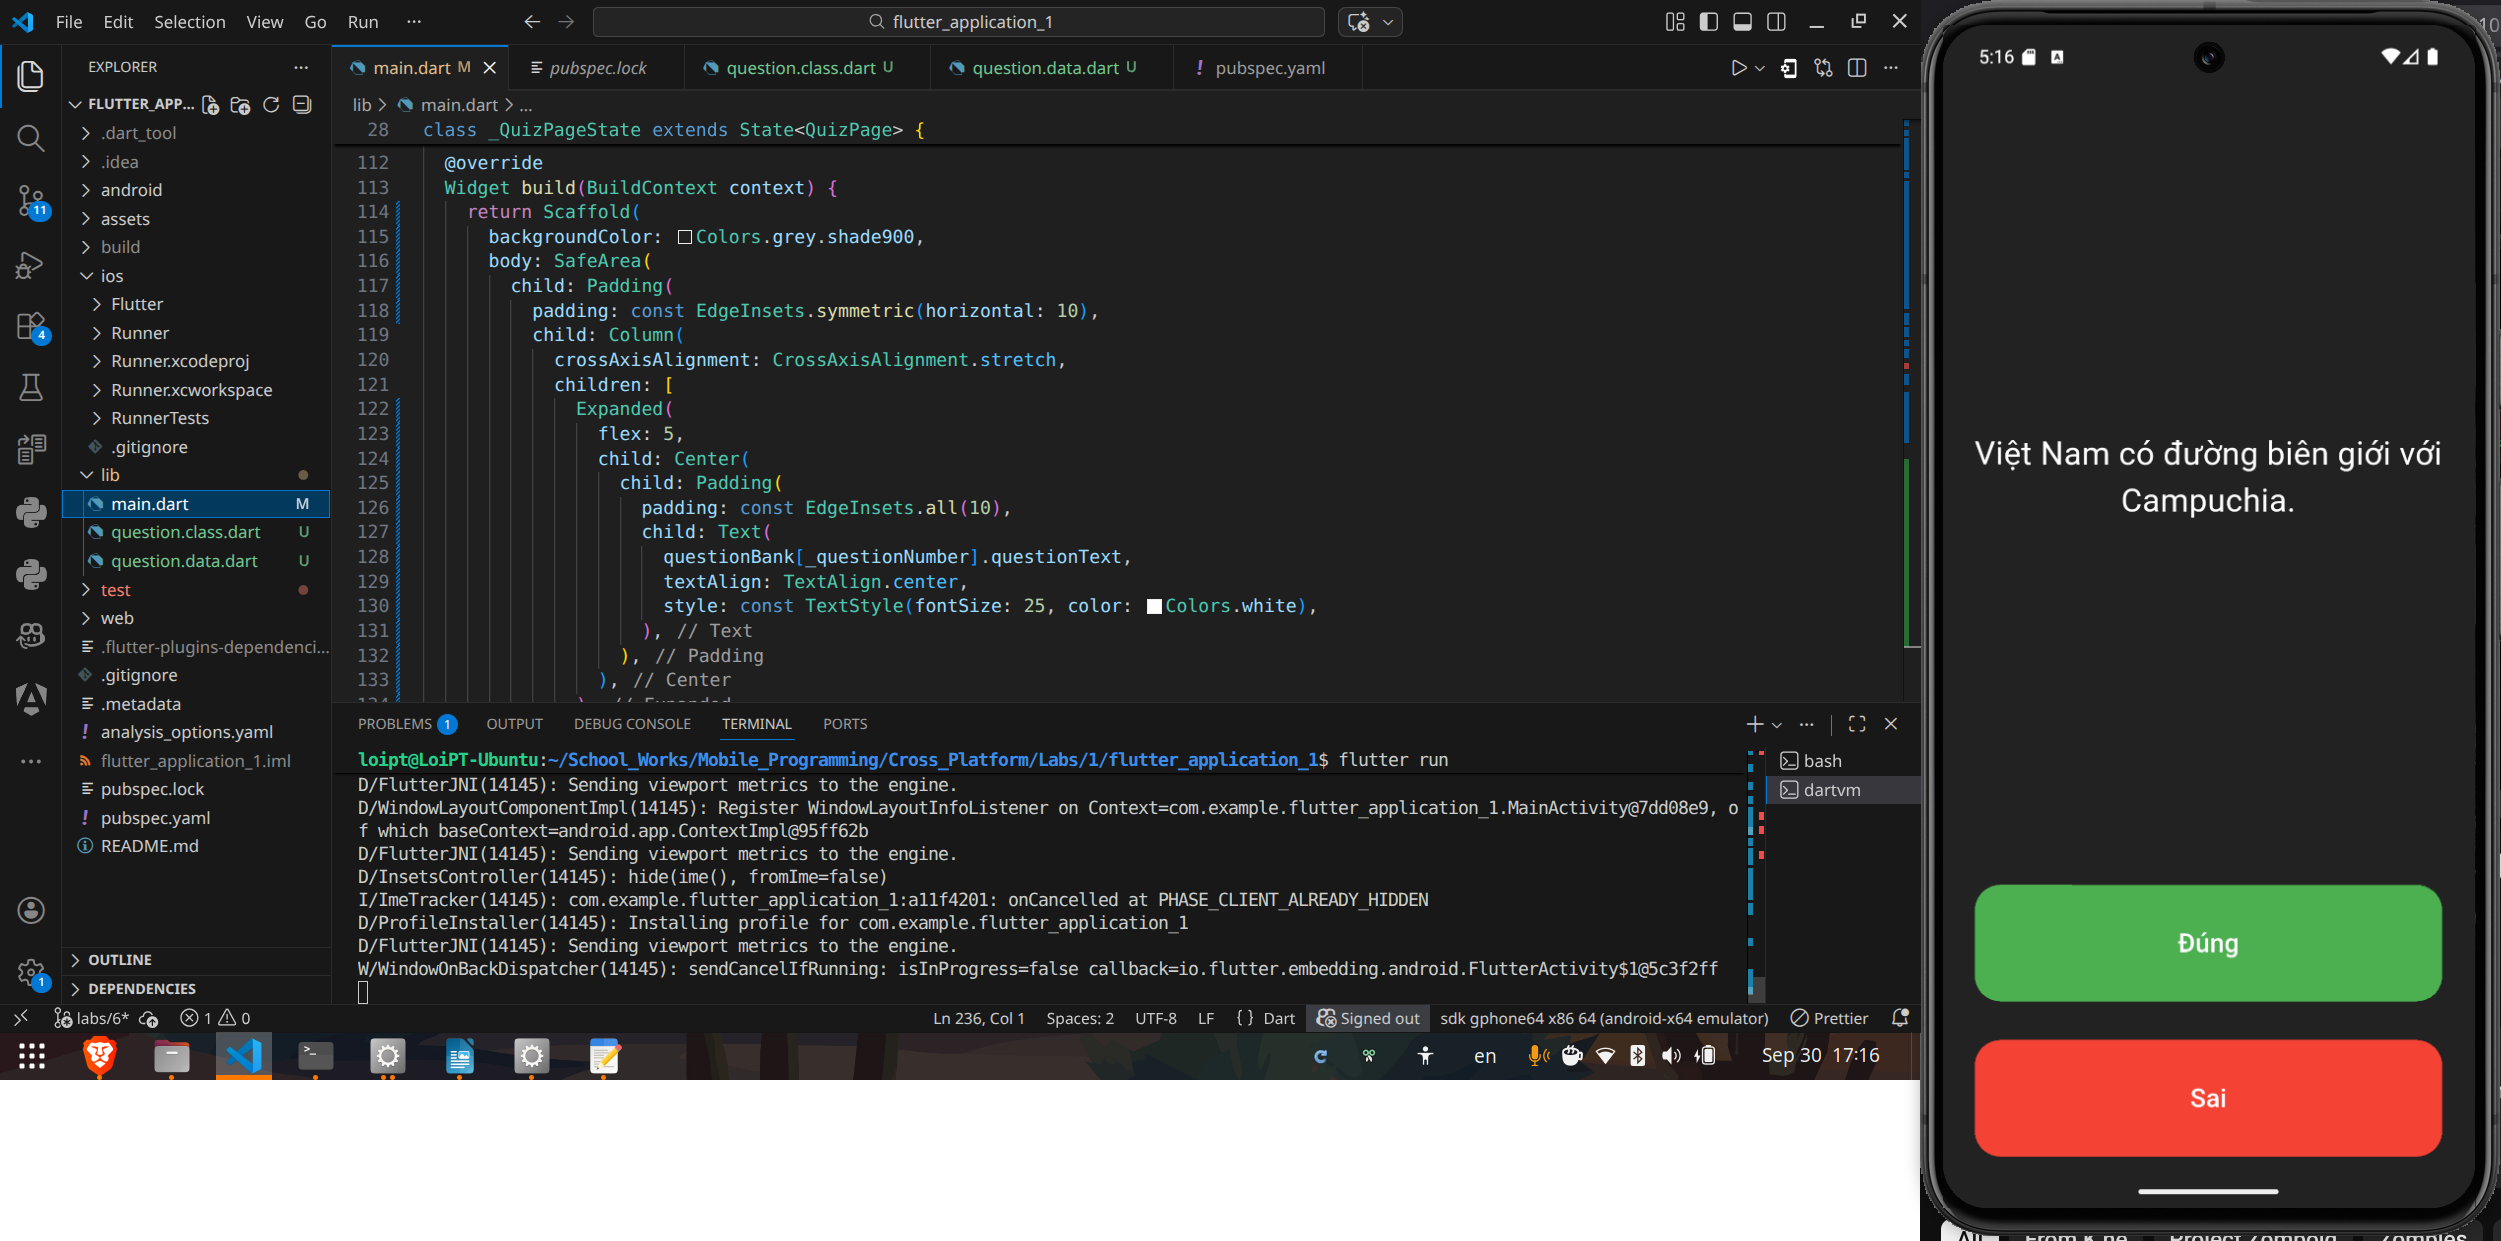
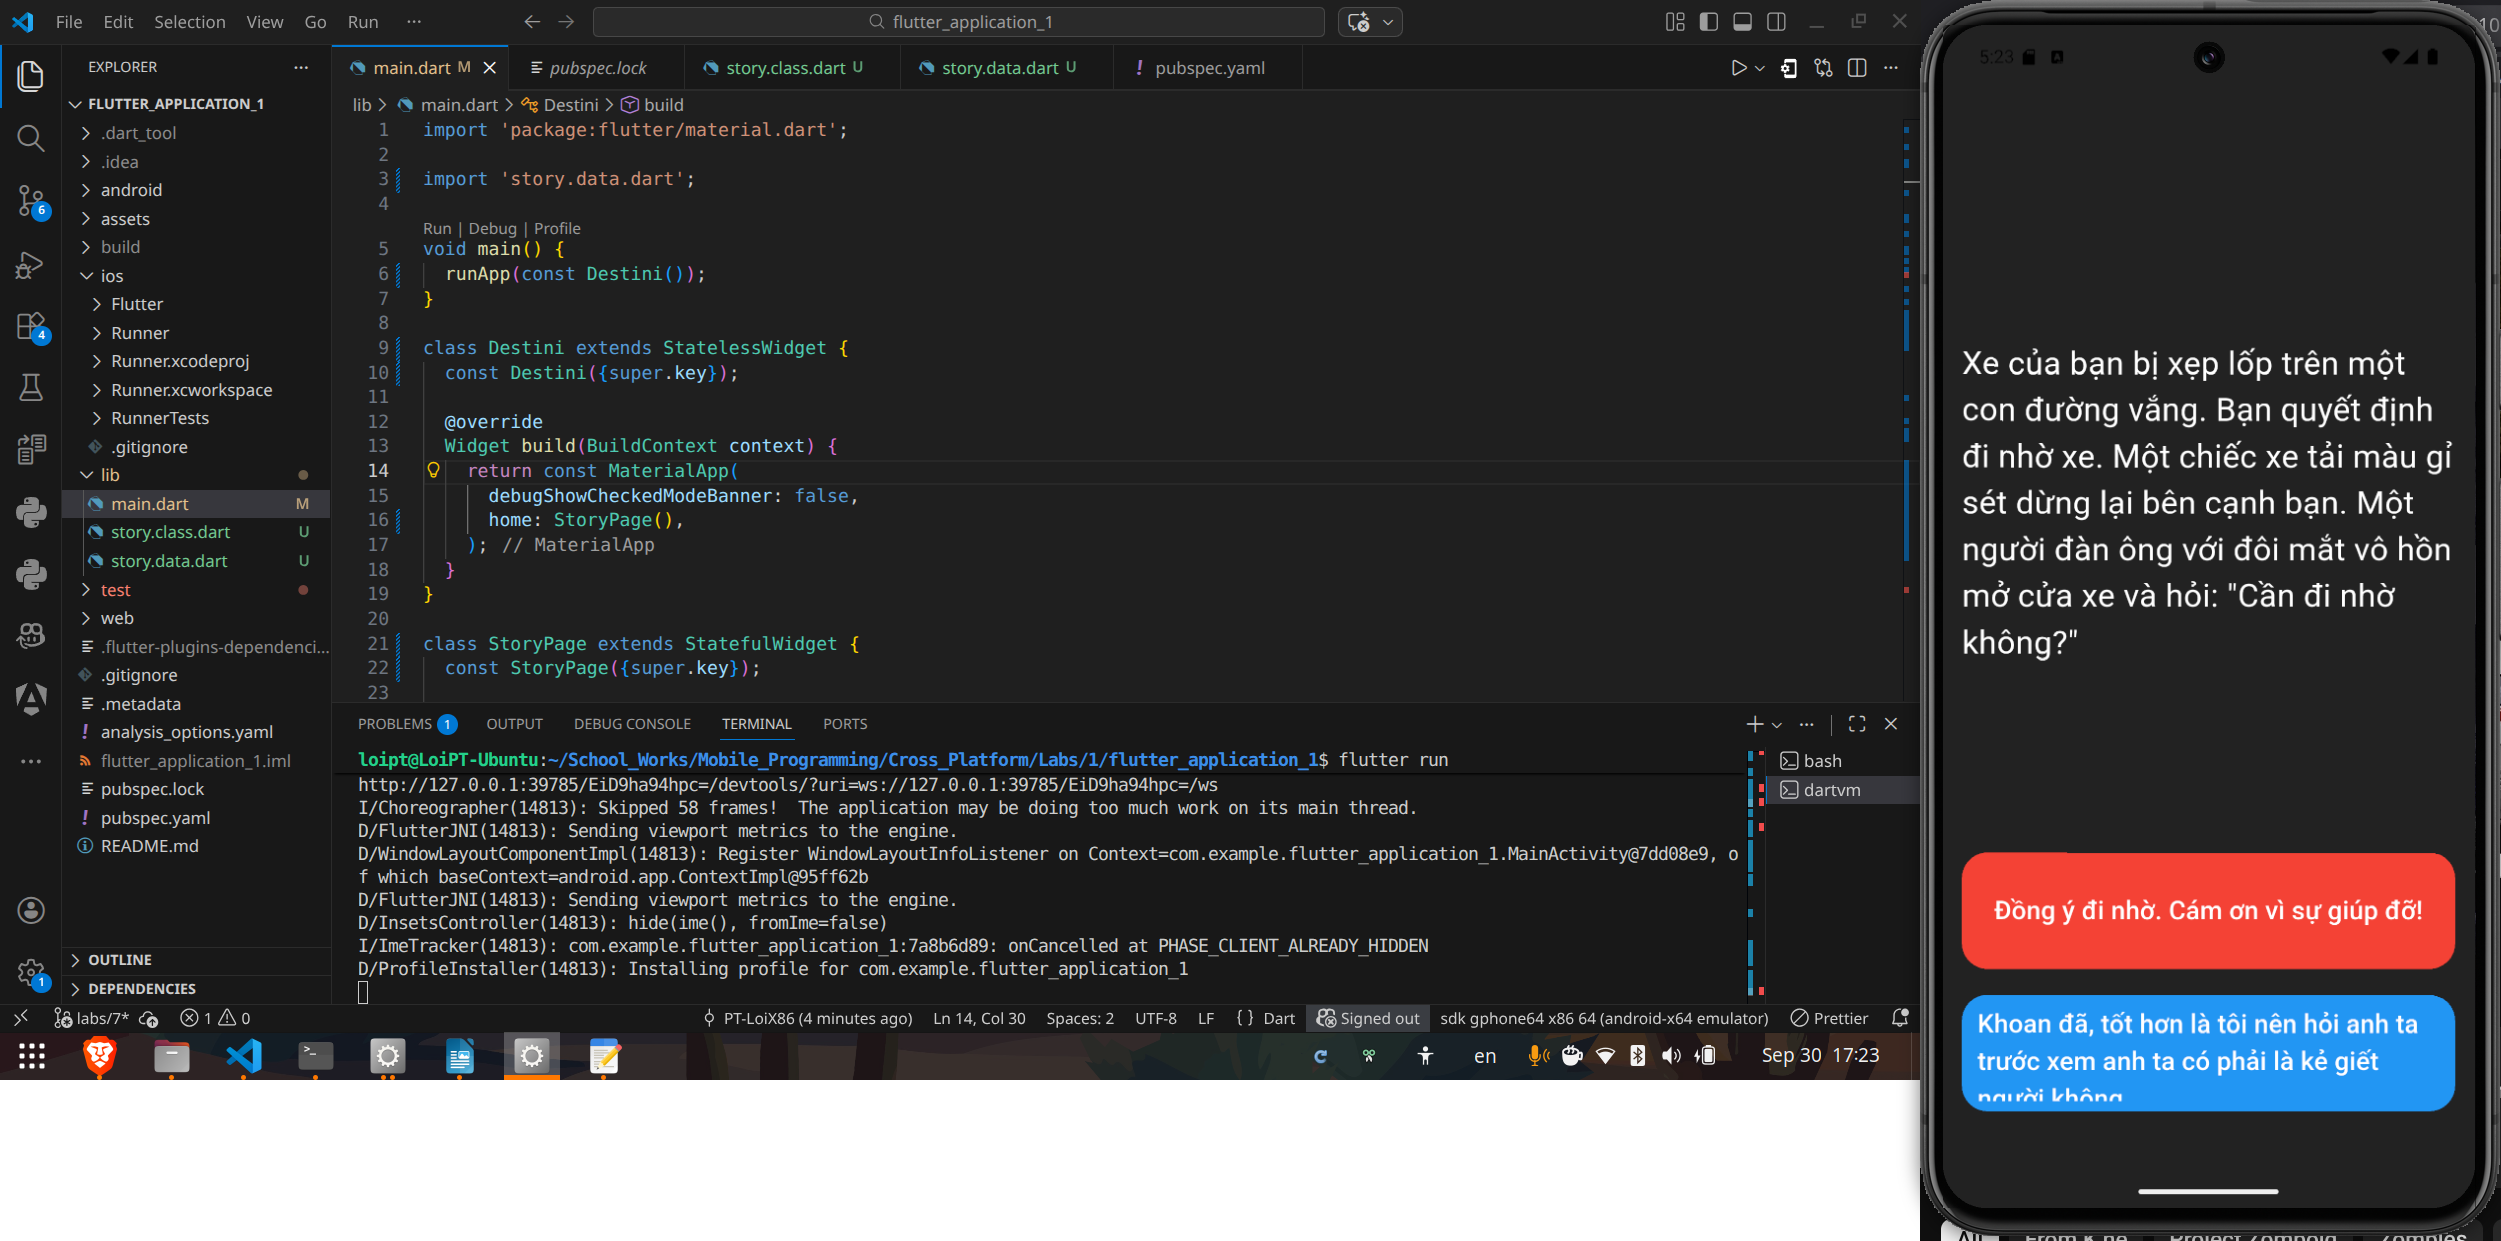
feat: Lab 7

diff --git a/1/flutter_application_1/lib/main.dart b/1/flutter_application_1/lib/main.dart
@@ -1,110 +1,53 @@
 import 'package:flutter/material.dart';
 
-import 'question.data.dart';
+import 'story.data.dart';
 
 void main() {
-  runApp(const Quizzler());
+  runApp(const Destini());
 }
 
-class Quizzler extends StatelessWidget {
-  const Quizzler({super.key});
+class Destini extends StatelessWidget {
+  const Destini({super.key});
 
   @override
   Widget build(BuildContext context) {
     return const MaterialApp(
       debugShowCheckedModeBanner: false,
-      home: QuizPage(),
+      home: StoryPage(),
     );
   }
 }
 
-class QuizPage extends StatefulWidget {
-  const QuizPage({super.key});
+class StoryPage extends StatefulWidget {
+  const StoryPage({super.key});
 
   @override
-  State<QuizPage> createState() => _QuizPageState();
+  State<StoryPage> createState() => _StoryPageState();
 }
 
-class _QuizPageState extends State<QuizPage> {
-  final List<Icon> _scoreKeeper = [];
+class _StoryPageState extends State<StoryPage> {
+  final StoryBrain _storyBrain = StoryBrain();
 
-  int _questionNumber = 0;
-  int _score = 0;
-
-  void _checkAnswer(bool userAnswer) {
-    final correctAnswer = questionBank[_questionNumber].questionAnswer;
-
-    final isCorrect = userAnswer == correctAnswer;
-
-    final isLastQuestion = _questionNumber == questionBank.length - 1;
-
+  void _choose(int choiceNumber) {
     setState(() {
-      if (isCorrect) {
-        _score++;
-      }
-
-      _scoreKeeper.add(
-        Icon(
-          isCorrect ? Icons.check : Icons.close,
-          color: isCorrect ? Colors.green : Colors.red,
-        ),
-      );
-
-      if (!isLastQuestion) {
-        _questionNumber++;
-      }
+      _storyBrain.nextStory(choiceNumber);
     });
-
-    if (isLastQuestion) {
-      _showResult();
-    }
   }
 
-  void _showResult() {
-    Navigator.push(
-      context,
-      MaterialPageRoute(
-        builder: (context) => ResultPage(
-          score: _score,
-          totalQuestions: questionBank.length,
-          scoreKeeper: List.of(_scoreKeeper),
-          onRetry: _restartQuiz,
-        ),
-      ),
-    );
-  }
-
-  void _restartQuiz() {
-    setState(() {
-      _questionNumber = 0;
-      _score = 0;
-      _scoreKeeper.clear();
-    });
-
-    Navigator.pop(context);
-  }
-
-  Widget _buildAnswerButton({
+  Widget _buildChoiceButton({
     required String text,
     required Color color,
-    required bool answer,
+    required int choiceNumber,
   }) {
-    return Expanded(
-      child: Padding(
-        padding: const EdgeInsets.all(15),
-        child: TextButton(
-          onPressed: () => _checkAnswer(answer),
-          style: TextButton.styleFrom(
-            backgroundColor: color,
-            shape: RoundedRectangleBorder(
-              borderRadius: BorderRadius.circular(20),
-            ),
-          ),
-          child: Text(
-            text,
-            style: const TextStyle(color: Colors.white, fontSize: 20),
-          ),
-        ),
+    return TextButton(
+      onPressed: () => _choose(choiceNumber),
+      style: TextButton.styleFrom(
+        backgroundColor: color,
+        shape: RoundedRectangleBorder(borderRadius: BorderRadius.circular(20)),
+      ),
+      child: Text(
+        text,
+        style: const TextStyle(fontSize: 20, color: Colors.white),
       ),
     );
   }
@@ -115,119 +58,44 @@ class _QuizPageState extends State<QuizPage> {
       backgroundColor: Colors.grey.shade900,
       body: SafeArea(
         child: Padding(
-          padding: const EdgeInsets.symmetric(horizontal: 10),
+          padding: const EdgeInsets.symmetric(vertical: 50, horizontal: 15),
           child: Column(
             crossAxisAlignment: CrossAxisAlignment.stretch,
             children: [
               Expanded(
-                flex: 5,
+                flex: 12,
                 child: Center(
-                  child: Padding(
-                    padding: const EdgeInsets.all(10),
-                    child: Text(
-                      questionBank[_questionNumber].questionText,
-                      textAlign: TextAlign.center,
-                      style: const TextStyle(fontSize: 25, color: Colors.white),
-                    ),
+                  child: Text(
+                    _storyBrain.story,
+                    style: const TextStyle(fontSize: 25, color: Colors.white),
                   ),
                 ),
               ),
 
-              _buildAnswerButton(
-                text: 'Đúng',
-                color: Colors.green,
-                answer: true,
+              Expanded(
+                flex: 2,
+                child: _buildChoiceButton(
+                  text: _storyBrain.choice1,
+                  color: Colors.red,
+                  choiceNumber: 1,
+                ),
               ),
 
-              _buildAnswerButton(text: 'Sai', color: Colors.red, answer: false),
+              const SizedBox(height: 20),
 
-              Row(children: _scoreKeeper),
+              Expanded(
+                flex: 2,
+                child: Visibility(
+                  visible: _storyBrain.hasChoice2,
+                  child: _buildChoiceButton(
+                    text: _storyBrain.choice2,
+                    color: Colors.blue,
+                    choiceNumber: 2,
+                  ),
+                ),
+              ),
             ],
           ),
-        ),
-      ),
-    );
-  }
-}
-
-class ResultPage extends StatelessWidget {
-  final int score;
-  final int totalQuestions;
-  final List<Icon> scoreKeeper;
-  final VoidCallback onRetry;
-
-  const ResultPage({
-    super.key,
-    required this.score,
-    required this.totalQuestions,
-    required this.scoreKeeper,
-    required this.onRetry,
-  });
-
-  @override
-  Widget build(BuildContext context) {
-    return Scaffold(
-      backgroundColor: Colors.grey.shade900,
-      appBar: AppBar(
-        title: const Text('Kết Quả', style: TextStyle(color: Colors.white)),
-        backgroundColor: Colors.grey.shade800,
-        automaticallyImplyLeading: false,
-        centerTitle: true,
-      ),
-      body: Center(
-        child: Column(
-          mainAxisAlignment: MainAxisAlignment.center,
-          children: [
-            const Text(
-              'Hoàn thành!',
-              style: TextStyle(
-                color: Colors.white,
-                fontSize: 32,
-                fontWeight: FontWeight.bold,
-              ),
-            ),
-
-            const SizedBox(height: 30),
-
-            Text(
-              'Điểm số: $score / $totalQuestions',
-              style: const TextStyle(color: Colors.white, fontSize: 24),
-            ),
-
-            const SizedBox(height: 20),
-
-            const Text(
-              'Kết quả các câu:',
-              style: TextStyle(color: Colors.white70, fontSize: 18),
-            ),
-
-            const SizedBox(height: 10),
-
-            Row(
-              mainAxisAlignment: MainAxisAlignment.center,
-              children: scoreKeeper,
-            ),
-
-            const SizedBox(height: 50),
-
-            ElevatedButton(
-              onPressed: onRetry,
-              style: ElevatedButton.styleFrom(
-                backgroundColor: Colors.blueAccent,
-                padding: const EdgeInsets.symmetric(
-                  horizontal: 40,
-                  vertical: 15,
-                ),
-                shape: RoundedRectangleBorder(
-                  borderRadius: BorderRadius.circular(30),
-                ),
-              ),
-              child: const Text(
-                'Làm Lại',
-                style: TextStyle(fontSize: 22, color: Colors.white),
-              ),
-            ),
-          ],
         ),
       ),
     );

diff --git a/1/flutter_application_1/lib/story.data.dart b/1/flutter_application_1/lib/story.data.dart
@@ -1,0 +1,85 @@
+import 'story.class.dart';
+
+class StoryBrain {
+  static const List<Story> _stories = [
+    Story(
+      storyTitle:
+          'Xe của bạn bị xẹp lốp trên một con đường vắng. Bạn quyết định đi nhờ xe. '
+          'Một chiếc xe tải màu gỉ sét dừng lại bên cạnh bạn. Một người đàn ông với '
+          'đôi mắt vô hồn mở cửa xe và hỏi: "Cần đi nhờ không?"',
+      choice1: 'Đồng ý đi nhờ. Cám ơn vì sự giúp đỡ!',
+      choice2: 'Khoan đã, tốt hơn là tôi nên hỏi anh ta trước xem anh ta có phải là kẻ giết người không.',
+    ),
+    Story(
+      storyTitle: 'Anh ta từ từ gật đầu, không hề e ngại với câu hỏi.',
+      choice1: 'Ít ra anh ta cũng trung thực. Lên xe thôi.',
+      choice2: 'Thôi, tôi nghĩ tôi nên đi bộ.',
+    ),
+    Story(
+      storyTitle:
+          'Khi bạn bắt đầu lái xe, người đàn ông lạ mặt bắt đầu nói về '
+          'mối quan hệ của anh ta với mẹ của anh ta. Mọi chuyện ngày càng '
+          'trở nên kỳ quái. Anh ta yêu cầu bạn mở ngăn đựng găng tay. '
+          'Bên trong bạn tìm thấy một con dao dính máu, 2 ngón tay bị '
+          'cắt đứt và một cuốn băng cassette Elton John.',
+      choice1: 'Tôi thích Elton John! Đưa tôi cuốn băng đó.',
+      choice2: 'Chạy trốn thôi!',
+    ),
+    Story(
+      storyTitle:
+          'Chà, hóa ra anh ta là một người tốt. Anh ta hát theo cuốn '
+          'băng trong khi chở bạn đến trạm xăng tiếp theo.',
+      choice1: 'Bắt đầu lại',
+      choice2: '',
+    ),
+    Story(
+      storyTitle:
+          'Khi bạn chạy qua lan can can hộ, bạn vô tình vấp phải ổ gà '
+          'và ngã. Anh ta bắt kịp bạn...',
+      choice1: 'Bắt đầu lại',
+      choice2: '',
+    ),
+    Story(
+      storyTitle:
+          'Bạn đi bộ một lúc thì kiệt sức và một chiếc xe tải khác '
+          'đi qua chạy mất. Có vẻ như bạn không gặp may.',
+      choice1: 'Bắt đầu lại',
+      choice2: '',
+    ),
+  ];
+
+  int _storyNumber = 0;
+
+  Story get _currentStory => _stories[_storyNumber];
+
+  String get story => _currentStory.storyTitle;
+
+  String get choice1 => _currentStory.choice1;
+
+  String get choice2 => _currentStory.choice2;
+
+  bool get hasChoice2 => _storyNumber <= 2;
+
+  void nextStory(int choiceNumber) {
+    switch (_storyNumber) {
+      case 0:
+        _storyNumber = choiceNumber == 1 ? 2 : 1;
+        break;
+
+      case 1:
+        _storyNumber = choiceNumber == 1 ? 2 : 5;
+        break;
+
+      case 2:
+        _storyNumber = choiceNumber == 1 ? 3 : 4;
+        break;
+
+      default:
+        restart();
+    }
+  }
+
+  void restart() {
+    _storyNumber = 0;
+  }
+}

diff --git a/1/flutter_application_1/lib/story.class.dart b/1/flutter_application_1/lib/story.class.dart
@@ -1,0 +1,11 @@
+class Story {
+  final String storyTitle;
+  final String choice1;
+  final String choice2;
+
+  const Story({
+    required this.storyTitle,
+    required this.choice1,
+    required this.choice2,
+  });
+}
